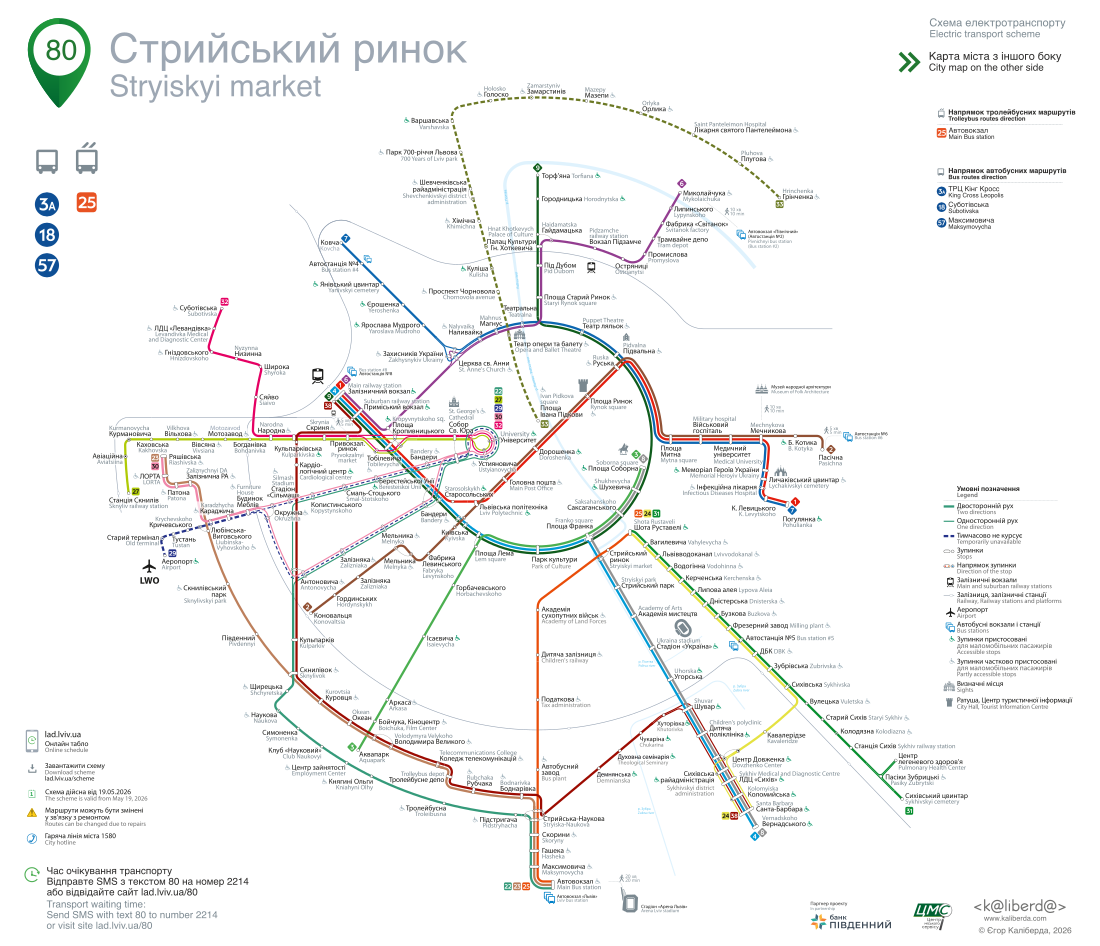
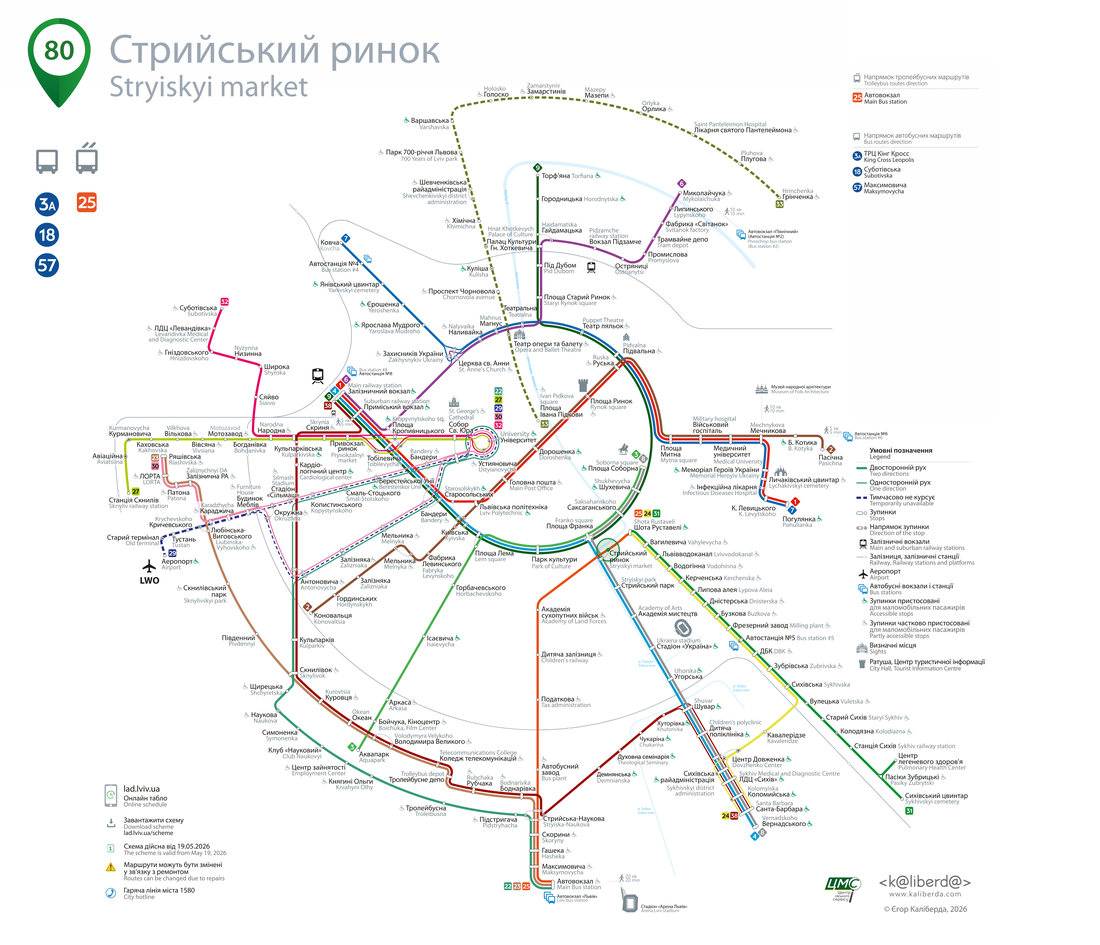
Show the 2026 poster in the README
Replace the schema screenshot with stop 80 on the new poster, describe what
it shows now, and date the map credit 2026, as the drawing itself does.

diff --git a/README.md b/README.md
@@ -42,10 +42,10 @@ Every sticker is generated on the fly, no design tool involved. The layout is pi
 ### `GET /:code/schema` — the whole network, with you-are-here
 
 <p align="center">
-  <img src="docs/schema-80.png" alt="Full Lviv electric transport scheme with stop 80 highlighted" width="900">
+  <img src="docs/schema-80.png" alt="The 2026 Lviv network drawing with stop 80 pinned on the map" width="900">
 </p>
 
-A bilingual 8386×7205 map of the city's electric transport, with the current stop pinned in the corner and its routes listed. Printed on the back of the sticker.
+A bilingual 8386×7205 poster built on the 2026 network drawing: the stop's name, code and routes in the corner, and a pin on the map where it is. Printed on the back of the sticker.
 
 The green you-are-here pin sits on the stop's own marker. The drawing has no text, only glyph outlines, so `tools/extract_map_labels.py` spells the labels back out, matches them to `api.lad.lviv.ua/stops.json` names, reads which route lines run through each marker, and writes `data/map_labels.json` (name → marker positions and their routes) plus `data/map_stop_pins.json` (hand-placed stops, by code); rerun it when the drawing changes. A name on two lines keeps only the pin on the stop's own line; a stop whose name the drawing does not label gets no pin. The old `/:code/schema-1` redirects here.
 
@@ -151,5 +151,5 @@ Route names arrive in Cyrillic and have to map onto icon filenames. `А03` → `
 
 Two things in this repo are **not** covered by that, because they were never mine to relicense:
 
-- 🗺 The network map in `views/scheme.erb` is © Єгор Каліберда, 2020 ([kaliberda.com](https://www.kaliberda.com)), as credited in the artwork itself.
+- 🗺 The network map in `views/scheme.erb` is © Єгор Каліберда, 2026 ([kaliberda.com](https://www.kaliberda.com)), as credited in the artwork itself.
 - 🔠 The embedded Myriad Pro fonts in `public/fonts/` are Adobe's, under their own license.
